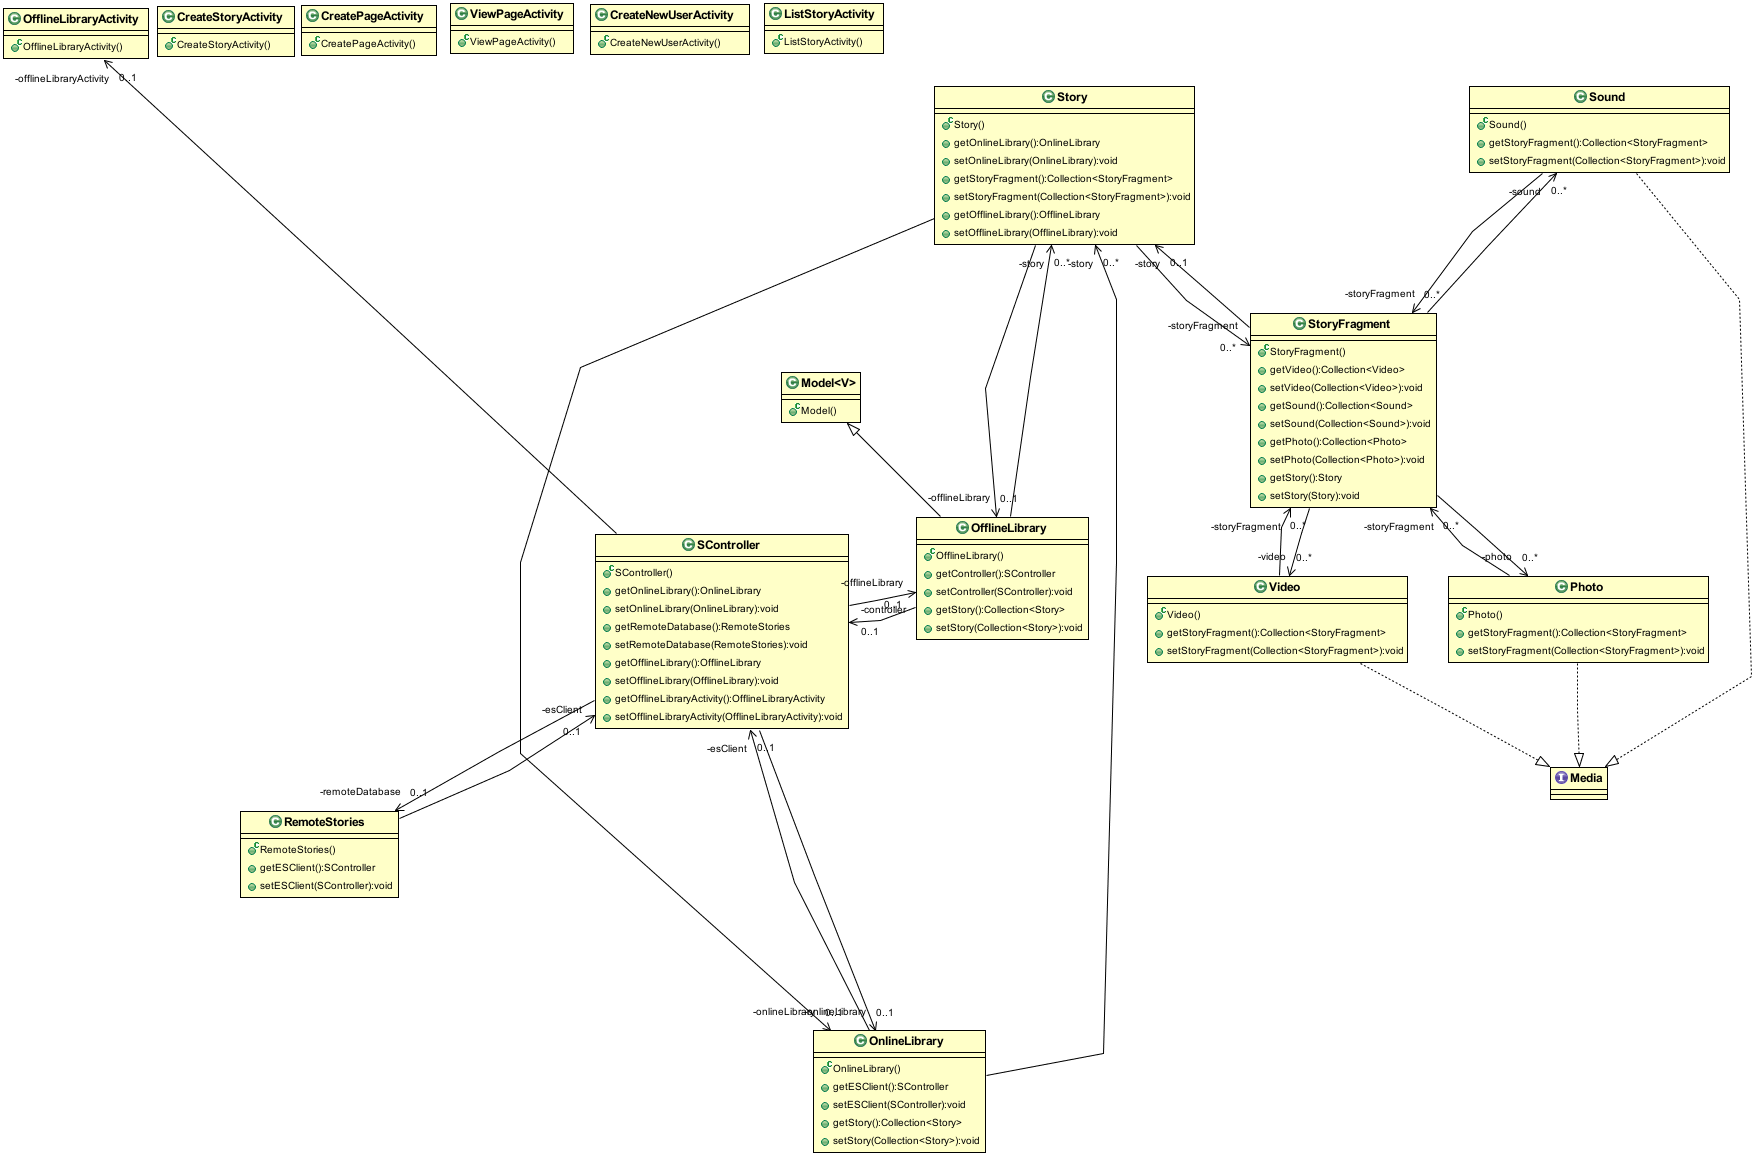
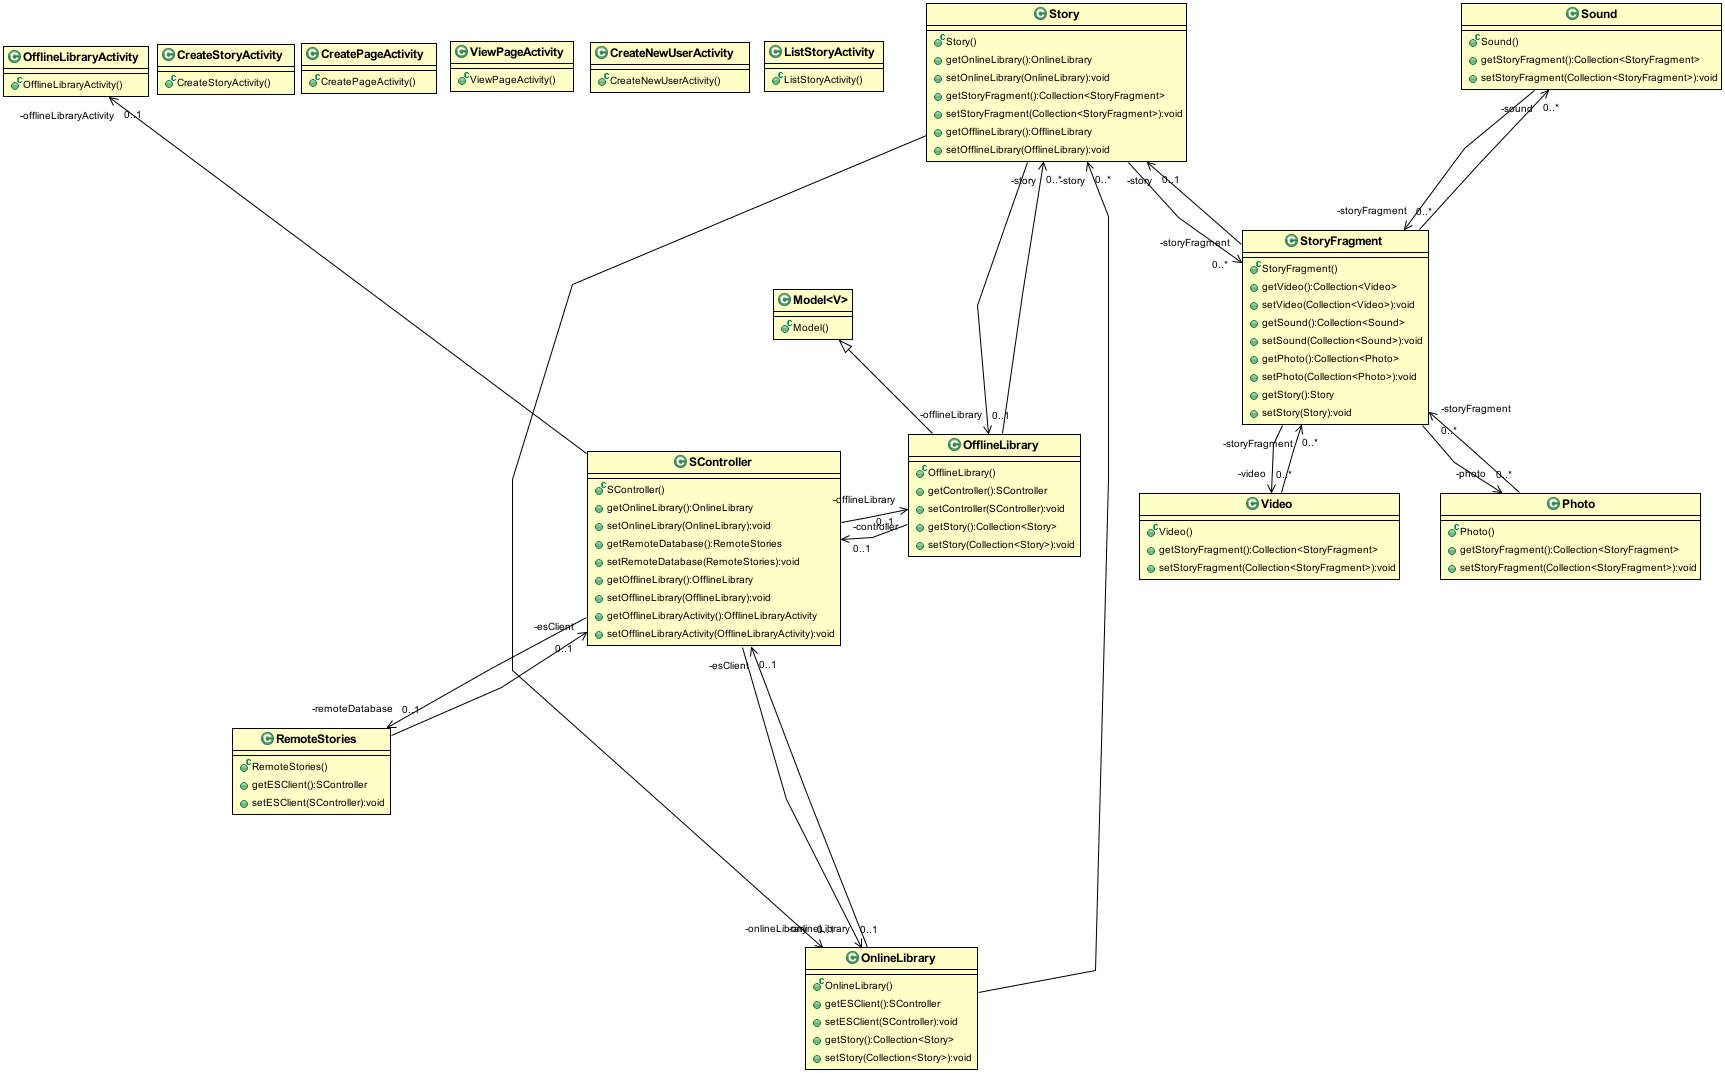
UML added

diff --git a/AdventureBook/src/com/example/adventurebook/Media.java b/AdventureBook/src/com/example/adventurebook/Media.java
@@ -1,6 +1,6 @@
 package com.example.adventurebook;
 
 
-public interface Media {
+public class Media {
 
 }
